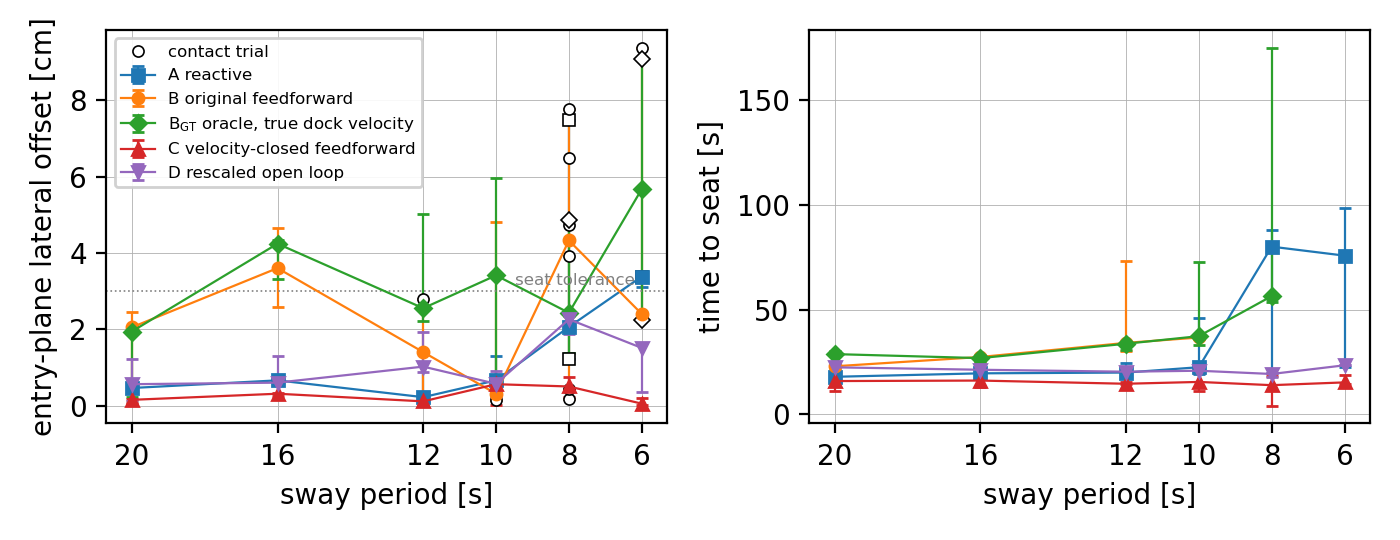
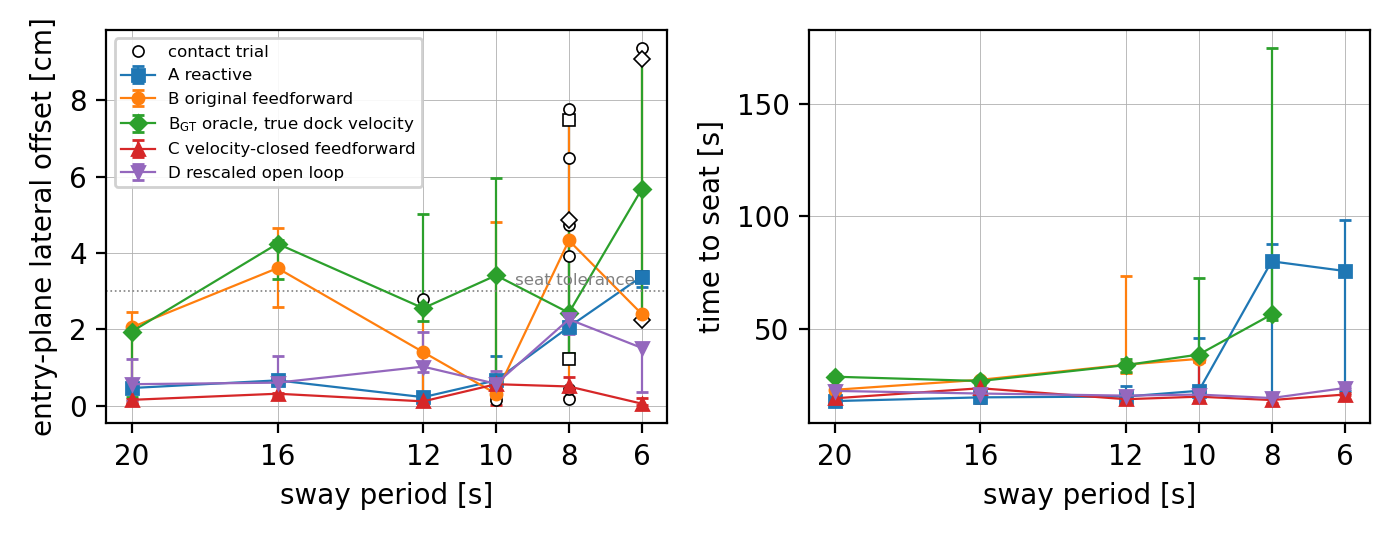
paper: seat times from the rescored data, the two repairs level on speed, success figure replaced by Table I, ten pages

diff --git a/ut27/paper/sections/07-results.tex b/ut27/paper/sections/07-results.tex
@@ -31,9 +31,9 @@ Table~\ref{tab:core} gives the envelope. The reactive baseline docks at every pe
     \midrule
     A seat time [s] & 18 & 20 & 20 & 22 & 80 & 76 \\
     B seat time [s] & 23 & 27 & 34 & 37 & -- & -- \\
-    \Bgt{} seat time [s] & 29 & 27 & 34 & 37 & 56 & -- \\
-    C seat time [s] & 16 & 16 & 15 & 15 & 14 & 15 \\
-    D seat time [s] & 22 & 21 & 20 & 21 & 19 & 23 \\
+    \Bgt{} seat time [s] & 29 & 27 & 34 & 39 & 56 & -- \\
+    C seat time [s] & 19 & 24 & 19 & 20 & 18 & 21 \\
+    D seat time [s] & 22 & 21 & 20 & 21 & 19 & 24 \\
     \bottomrule
   \end{tabular}
 \end{table}
@@ -48,9 +48,9 @@ Table~\ref{tab:core} gives the envelope. The reactive baseline docks at every pe
     Variant & Clean & Seat [s] & Max off. & Nav. \\
     \midrule
     nothing converted & 17 of 19 & 39 to 47 & 2.6~cm & 17 of 18 \\
-    + position gains $\times g$ & 18 of 18 & 40 to 42 & 1.8~cm & 17 of 18 \\
-    + speed limits $\times g$ & 16 of 18 & 8 to 17 & 1.1~cm & 9 of 18 \\
-    + model feedforward (arm C) & 18 of 18 & 14 to 16 & 0.8~cm & 16 of 18 \\
+    + position gains $\times g$ & 18 of 18 & 41 to 43 & 1.8~cm & 17 of 18 \\
+    + speed limits $\times g$ & 16 of 18 & 16 to 18 & 1.1~cm & 9 of 18 \\
+    + model feedforward (arm C) & 18 of 18 & 18 to 24 & 0.8~cm & 16 of 18 \\
     \bottomrule
   \end{tabular}
 \end{table}
@@ -67,24 +67,24 @@ Fig.~\ref{fig:overswing} plots the vehicle-to-dock lateral amplitude ratio, take
 
 \subsection{Capture quality and time to seat}
 
-The offset at the entry plane and the time to seat (Fig.~\ref{fig:capture}, Table~\ref{tab:core}) separate the arms that dock. The velocity-closed feedforward has the smallest median offsets at five of the six periods (at 10~s the original method's 0.3~cm median includes a contact trial), 0.1 to 0.6~cm with no trial over 0.8~cm, against 0.6 to 2.3~cm for the rescaled arm and 0.2 to 3.4~cm for the baseline; every trial of both repairs is inside the 3~cm seat tolerance. The oracle, with the true velocity but the open-loop law, crosses the entry plane with median offsets of 1.9 to 5.7~cm, larger than the baseline's at every period: an accurate feedforward through a mis-scaled law is worse at the entry plane than none. The velocity-closed arm is also the fastest to seat, median 14 to 16~s at every period with no trial over 21~s, against 19 to 23~s for the rescaled arm and 18 to 22~s for the baseline from 20 to 10~s, rising to 76 to 80~s at 8 and 6~s where the baseline rides the swing until a favourable phase. The velocity-closed arm crosses the entry plane at 0.05 to 0.06~m/s, the floor of the closing-speed ramp, the baseline and the rescaled arm at 0.08 to 0.10~m/s, because the inner loop follows the ramp instead of saturating against it. The rescaled arm ran without the velocity-state decay; its longest core-sweep blackout, 19~percent of one 10~s run, still docked.
+The offset at the entry plane and the time to seat (Fig.~\ref{fig:capture}, Table~\ref{tab:core}) separate the arms that dock. The velocity-closed feedforward has the smallest median offsets at five of the six periods (at 10~s the original method's 0.3~cm median includes a contact trial), 0.1 to 0.6~cm with no trial over 0.8~cm, against 0.6 to 2.3~cm for the rescaled arm and 0.2 to 3.4~cm for the baseline; every trial of both repairs is inside the 3~cm seat tolerance. The oracle, with the true velocity but the open-loop law, crosses the entry plane with median offsets of 1.9 to 5.7~cm, larger than the baseline's at every period: an accurate feedforward through a mis-scaled law is worse at the entry plane than none. The two repairs seat at the same speed, medians of 18 to 24~s for the velocity-closed arm (one trial 35~s) and 19 to 24~s for the rescaled arm, against 18 to 22~s for the baseline from 20 to 10~s, rising to 76 to 80~s at 8 and 6~s where the baseline rides the swing until a favourable phase. The velocity-closed arm crosses the entry plane at 0.05 to 0.06~m/s, the floor of the closing-speed ramp, the baseline and the rescaled arm at 0.08 to 0.10~m/s, because the inner loop follows the ramp instead of saturating against it. The rescaled arm ran without the velocity-state decay; its longest core-sweep blackout, 19~percent of one 10~s run, still docked.
 
 \begin{figure}[t]
-  \centerline{\includegraphics[width=0.84\columnwidth]{figures/capture_and_time.png}}
+  \centerline{\includegraphics[width=0.8\columnwidth]{figures/capture_and_time.png}}
   \caption{Median and range over the cell of the lateral offset at the entry plane (left; hollow markers are the individual trials scored as contacts) and of the time to seat (right, docked trials only; a line is broken where no trial docked).}
   \label{fig:capture}
 \end{figure}
 
-Table~\ref{tab:ablation} prices the unit conversions of Section~\ref{sec:redesign}. With nothing converted the loop docks to 8~s but seats in about 42~s and misses two of three trials at 6~s, holding the standoff with the 2.8 to 3.2~cm RMS relative error its 28$^\circ$ lag predicts ($|1-H| = 0.46$ of the sway amplitude) while the handoff's velocity-match test never holds. Converting the position gains restores the outer loop and the 6~s cells latch, at offsets under 2~cm, but the seat time stays at 41~s because the fine-phase closing speed is still 0.07~m/s. Converting the speed limits as well makes the pure PI fast, 8 to 17~s, but at that speed its lag shows: two core trials never latch and under navigation error it over-swings by 1.5 to 10, demotes ten times and docks in 9 of 18. The model feedforward, the $v_{\mathrm{ref}}/g$ term of Eq.~\eqref{eq:vloop}, removes the lag and gives arm C: every core trial clean, 14 to 16~s, and 16 of 18 under navigation error.
+Table~\ref{tab:ablation} prices the unit conversions of Section~\ref{sec:redesign}. With nothing converted the loop docks to 8~s but seats in about 42~s and misses two of three trials at 6~s, holding the standoff with the 2.8 to 3.2~cm RMS relative error its 28$^\circ$ lag predicts ($|1-H| = 0.46$ of the sway amplitude) while the handoff's velocity-match test never holds. Converting the position gains restores the outer loop and the 6~s cells latch, at offsets under 2~cm, but the seat time stays at 41 to 43~s because the fine-phase closing speed is still 0.07~m/s. Converting the speed limits as well makes the pure PI fast, 16 to 18~s, but at that speed its lag shows: two core trials never latch and under navigation error it over-swings by 1.5 to 10, demotes ten times and docks in 9 of 18. The model feedforward, the $v_{\mathrm{ref}}/g$ term of Eq.~\eqref{eq:vloop}, removes the lag and gives arm C: every core trial clean, 18 to 24~s, and 16 of 18 under navigation error.
 
 \subsection{Estimators and controllers under navigation error}
 
 Replaying both estimators offline on the recorded measurement streams of four arm-B trials (20, 12, 10 and 8~s) with the navigation corrupted at the three levels, three seeds each, the slow part of the dock-velocity error tracks the injected bias for both: means over the twelve replays per level of 0.024 to 0.070~m/s against a bias of 0.023 to 0.076~m/s at the medium and high levels, correlation 0.6 to 0.9; at the low level the 0.8~cm/s bias sits at the estimators' own floor and the correlation falls to 0.3. The relative frame removes only the fast part, 1.4 to 1.6~cm/s against 4.0 to 4.3~cm/s, by not differentiating the injected white position error; the relative position error the controllers act on is 3.5 to 3.7~cm RMS for both.
 
-The live sweep feeds the corrupted navigation to the controllers as well as the estimators: arms A, B, C and D at 10 and 8~s, three bias levels and three phases, 72 trials, plus 54 for the ablation variants (Fig.~\ref{fig:nav}, Table~\ref{tab:ablation}). The arms separate on the bias. The reactive arm docks in 3 of 18 trials, two of them at the low level: its constant-position filter lives in the world frame through the vehicle pose and cannot follow a navigation frame that drifts even at 1~cm/s, so the relative geometry it regulates is wrong by tens of centimetres and the standoff is never satisfied (Section~\ref{sec:discussion}). The original feedforward docks in 4 of 18, all at the low level; at the medium level its constant-velocity filter absorbs the drift as dock velocity, the open-loop law drives the vehicle at the dock velocity plus the bias, and four of six trials left the dock altogether, climbing toward the surface until the run was stopped (scored as contacts, since each crossed the aperture boundary first). The velocity-closed feedforward docks in 16 of 18 (Wilson interval 0.67 to 0.97) against 4 of 18 and 3 of 18 ($p < 10^{-3}$ for either contrast), because the bias enters the setpoint and the measured vehicle velocity alike and cancels in the loop error; its entry offsets stay at 0.3 to 0.4~cm median through the low and medium levels. The rescaled open-loop arm also docks in 16 of 18: it carries the bias into the command at one times its size, where the original carried it at 2.7 times, and the position feedback holds the offset the bias leaves, $b_v / (K_p g)$ with the position gain, 4.6~cm at the high level's stationary deviation but less over a fine phase, where the realised bias is smaller; the cost is 1.3 to 1.7~cm median offsets. The sweep does not separate the two repairs ($p = 1$). Both arm C misses are at the 10~s period under the 10~cm/s drift, where the fix meets the estimator's own limit: the world-frame filter must carry sway plus drift, above its 0.2~m/s velocity bound about 30~percent of the time in this realisation, so the velocity state sits on the bound and the world-frame estimate drifts metres from the dock while the markers stay in view (no blackout, no demotion in either miss). The rescaled arm's two misses are both at 10~s and the same start phase, one at the medium level, where the open-loop law carried the bias into an over-swing that lost the markers for 30~percent of the run, and one at the high level, where it was demoted once and crossed the aperture without latching; all four misses share one cell of the single bias realisation, so they are one hard trajectory rather than four independent events. The bound was sized for the dock's own motion and is kept fixed across arms here.
+The live sweep feeds the corrupted navigation to the controllers as well as the estimators: arms A, B, C and D at 10 and 8~s, three bias levels and three phases, 72 trials, plus 54 for the ablation variants (Fig.~\ref{fig:nav}, Table~\ref{tab:ablation}). The arms separate on the bias. The reactive arm docks in 3 of 18 trials, two of them at the low level: its constant-position filter lives in the world frame through the vehicle pose and cannot follow a navigation frame that drifts even at 1~cm/s, so the relative geometry it regulates is wrong by tens of centimetres and the standoff is never satisfied (Section~\ref{sec:discussion}). The original feedforward docks in 4 of 18, all at the low level; at the medium level its constant-velocity filter absorbs the drift as dock velocity, the open-loop law drives the vehicle at the dock velocity plus the bias, and four of six trials left the dock altogether, climbing toward the surface until the run was stopped (scored as contacts, since each crossed the aperture boundary first). The velocity-closed feedforward docks in 16 of 18 (Wilson interval 0.67 to 0.97) against 4 of 18 and 3 of 18 ($p < 10^{-3}$ for either contrast), because the bias enters the setpoint and the measured vehicle velocity alike and cancels in the loop error; its entry offsets stay at 0.3 to 0.4~cm median through the low and medium levels. The rescaled open-loop arm also docks in 16 of 18: it carries the bias into the command at one times its size, where the original carried it at 2.7 times, and the position feedback holds the offset the bias leaves, $b_v / (K_p g)$ with the position gain, 4.6~cm at the high level's stationary deviation but less over a fine phase, where the realised bias is smaller; the cost is 1.3 to 1.7~cm median offsets. The sweep does not separate the two repairs ($p = 1$). Both arm C misses are at the 10~s period under the 10~cm/s drift, where the fix meets the estimator's own limit: the world-frame filter must carry sway plus drift, above its 0.2~m/s velocity bound about 30~percent of the time in this realisation, so the velocity state sits on the bound and the world-frame estimate drifts metres from the dock while the markers stay in view (no blackout, no demotion in either miss). The rescaled arm's two misses are both at 10~s and the same start phase, one at the medium level, where the open-loop law carried the bias into an over-swing that lost the markers for 30~percent of the run, and one at the high level, where it was demoted once and crossed the aperture without latching; all four misses share one cell of the single bias realisation. The bound was sized for the dock's own motion and is kept fixed across arms here.
 
 \begin{figure}[t]
-  \centerline{\includegraphics[width=0.76\columnwidth]{figures/nav_heatmap.png}}
+  \centerline{\includegraphics[width=0.7\columnwidth]{figures/nav_heatmap.png}}
   \caption{Docked fraction under first-order Gauss-Markov navigation error ($\tau_b = 30$~s, 1~mm white position noise, one seed) by arm and bias level, three sway phases per cell; the level-none column is the core sweep (six trials for arm B at 8~s).}
   \label{fig:nav}
 \end{figure}

diff --git a/ut27/paper/sections/08-discussion.tex b/ut27/paper/sections/08-discussion.tex
@@ -1,12 +1,12 @@
 \section{Discussion}
 \label{sec:discussion}
 
-\textbf{What the oracle and the rescaled arm decided.} \Bgt{} feeds the true dock velocity through the same law as arm B, so it isolates the plant from the estimator. It over-swings as B does at every period, which places the over-swing in the open-loop law and the plant. It also seats at 8~s where B does not, so at that one period the estimate's phase lag, through a lag-limited plant, decides whether the small markers stay in view. Both repairs remove the over-swing at every period with the same estimate. The rescaled open-loop arm settles the second question the oracle leaves open: it docks without contact at every period including 6~s with only the gain changed, so under exact navigation the fault was the gain, and the open-loop structure was sound once the plant was identified. The ablation adds the lesson for anyone who closes the loop instead: every gain, limit and ramp downstream of the controller output was tuned as an effort, each one left unconverted cost a measured failure, and the pure PI at full speed needed the model feedforward to keep its lag down: without it the loop over-swung by 1.5 to 10 under bias and docked in 9 of 18.
+\textbf{What the oracle and the rescaled arm decided.} \Bgt{} feeds the true dock velocity through the same law as arm B, so it isolates the plant from the estimator. It over-swings as B does at every period, which places the over-swing in the open-loop law and the plant. It also seats at 8~s where B does not, so at that one period the estimate's phase lag, through a lag-limited plant, decides whether the small markers stay in view. Both repairs remove the over-swing at every period with the same estimate. The rescaled open-loop arm settles the second question the oracle leaves open: it docks without contact at every period including 6~s with only the gain changed, so under exact navigation the fault was the gain, and the open-loop structure was sound once the plant was identified. The ablation adds the lesson for anyone who closes the loop instead: every gain, limit and ramp downstream of the controller output was tuned as an effort, each one left unconverted cost a measured failure, and the pure PI at full speed needed the model feedforward to keep its lag down (9 of 18 under bias without it).
 
 \textbf{Transfer to hardware.} The cliff sits where the position loop's return ratio at the sway frequency falls toward unity; a longer plant lag lowers it further. A real vehicle adds thruster response, autopilot filtering and tether drag, so the lag will grow; the gain must be re-identified, and the rescaled law stands or falls with that number. The velocity-closed feedforward needs only the identified lag to place its bandwidth, and a body-velocity measurement to close on. A stock BlueROV2 has none; the arm assumes a Doppler velocity log, whose bias and noise the navigation-error levels bracket. The loop closes here on a 100~Hz velocity; a Doppler log at 5 to 15~Hz with bottom-track latency adds a lag the sweep does not model, which the 2~rad/s bandwidth tolerates only while that lag stays well under the 0.4~s plant time constant, and a Doppler log within a metre of a moving dock face may track the dock rather than the seabed. Without a velocity sensor only the rescaled law is available.
 
-\textbf{Navigation error.} The observability limit of Section~\ref{sec:navobs} has a plain practical reading, and the live sweep shows it: an open-loop feedforward on a real navigation solution drives the vehicle at the dock velocity plus $K_{ff}\,g$ times the bias. The original method's collapse at a 3~cm/s drift was the same gain error once more, amplifying the bias 2.7 times; with the gain corrected the open loop carries the bias at one times and the position feedback absorbs it, 16 of 18 trials, leaving a visible offset at the entry plane. Closing the feedforward on the same navigation solution cancels the bias in the loop error, 16 of 18 with millimetre offsets. What the velocity loop buys for a deployment is therefore not a margin in docking count at these levels but, by the argument of Section~\ref{sec:redesign} and not by a test in this sweep, tolerance of an error in $g$, which changes with flight mode, trim and hardware; cancellation of a bias, to within the estimator's tracking lag, that the position loop would otherwise hold as a steady offset of $b_v / (K_p g)$ with the position gain, 4.6~cm at a steady 10~cm/s with the fine gains; and the most accurate and fastest insertion in this sweep. The order of importance for a deployment is therefore the plant identification, then the bounded velocity state, then the choice of law by how well $g$ is known, and the choice of estimator last. The reactive baseline is the arm that navigation drift hurts most here, because its constant-position filter lives in the world frame through the vehicle pose and has nothing to absorb the drift with. The sensitivity belongs to the world-frame formulation; a reactive servo on the camera-frame pose alone, as Trsli\'c et al.\ ran it \cite{trslic2020vision}, never sees the navigation, at the cost of filtering across dropouts.
+\textbf{Navigation error.} The observability limit of Section~\ref{sec:navobs} has a plain practical reading, and the live sweep shows it: an open-loop feedforward on a real navigation solution drives the vehicle at the dock velocity plus $K_{ff}\,g$ times the bias. The original method's collapse at a 3~cm/s drift was the same gain error once more, amplifying the bias 2.7 times; with the gain corrected the open loop carries the bias at one times and the position feedback absorbs it, 16 of 18 trials, leaving a visible offset at the entry plane. Closing the feedforward on the same navigation solution cancels the bias in the loop error, 16 of 18 with millimetre offsets. What the velocity loop buys for a deployment is therefore not a margin in docking count at these levels but, by the argument of Section~\ref{sec:redesign} and not by a test in this sweep, tolerance of an error in $g$, which changes with flight mode, trim and hardware; cancellation of a bias, to within the estimator's tracking lag, that the position loop would otherwise hold as a steady offset of $b_v / (K_p g)$ with the position gain, 4.6~cm at a steady 10~cm/s with the fine gains; and the most accurate insertion in this sweep, at the rescaled law's speed. The order of importance for a deployment is therefore the plant identification, then the bounded velocity state, then the choice of law by how well $g$ is known, and the choice of estimator last. The reactive baseline is the arm that navigation drift hurts most here, because its constant-position filter lives in the world frame through the vehicle pose and has nothing to absorb the drift with. The sensitivity belongs to the world-frame formulation; a reactive servo on the camera-frame pose alone, as Trsli\'c et al.\ ran it \cite{trslic2020vision}, never sees the navigation, at the cost of filtering across dropouts.
 
 \textbf{Where the fix stops.} At a 10~cm/s drift the world-frame filter saturates its 0.2~m/s velocity bound and the estimate walks away from the dock with the markers in view; no controller recovers that. Arm C loses two trials of six there, the rescaled arm one there and one at the medium level to a marker loss. The bound was sized for the dock's own motion and kept fixed across arms; sizing it with the expected drift, or estimating the drift as a state, is the next step.
 
-\textbf{Limitations.} Contact is not modelled; success is scored at the capture envelope and would-be contacts are censored. The dock motion is a single prescribed sinusoid at one amplitude in still water, so what is tested is a 0.1~m relative motion. The orbital flow that moves a real dock also advects the vehicle, a moored dock yaws and pitches, and there is no current, tether or surge; a multi-sine, a yawing dock and a flow field on the vehicle are the next cells. At the 0.55~m cage amplitude of Trsli\'c et al.\ the dock velocity exceeds the 0.2~m/s bound and the 0.25~m/s clamp, which must scale with the site. Perception is rendered without water, so the 0.2 to 0.9~cm measurement error is a property of the renderer; real ArUco poses jitter at the centimetre level, which a constant-velocity filter differentiates into velocity, so a replay with measured marker jitter is the next test of the estimator. The plant gain and time constant come from open-loop step tests in the simulator and arm C's velocity loop is tuned against them, so the same tests must be repeated on hardware before the gains transfer. The second host's velocity-state amplitudes are biased low by a wall-clock filter defect fixed before the comparison.
+\textbf{Limitations.} Contact is not modelled; success is scored at the capture envelope and would-be contacts are censored. The dock motion is a single prescribed sinusoid at one amplitude in still water, so what is tested is a 0.1~m relative motion. The orbital flow that moves a real dock also advects the vehicle, a moored dock yaws and pitches, and there is no current, tether or surge; a multi-sine, a yawing dock and a flow field on the vehicle are the next cells. At the 0.55~m cage amplitude of Trsli\'c et al.\ the dock velocity exceeds the 0.2~m/s bound and the 0.25~m/s clamp, which must scale with the site. Perception is rendered without water, so the 0.2 to 0.9~cm measurement error is a property of the renderer; real ArUco poses jitter at the centimetre level, which a constant-velocity filter differentiates into velocity, so a replay with measured marker jitter is the next test of the estimator. The plant gain and time constant come from open-loop step tests in the simulator and arm C's velocity loop is tuned against them, so the same tests must be repeated on hardware before the gains transfer.

diff --git a/ut27/paper/sections/09-conclusion.tex b/ut27/paper/sections/09-conclusion.tex
@@ -1,6 +1,6 @@
 \section{Conclusion}
 \label{sec:conclusion}
 
-Adding a dock-velocity feedforward to a static-dock visual docking pipeline turned a reactive baseline that docks at every sway period into a method that fails at the wave periods of its operating site, and its own estimator pointed at itself. The recorded trials showed the estimator was right: the vehicle over-swung because the feedforward was scaled for a plant gain of 1.3 to 1.6 where the command channel delivers 2.7. The same law fed the true dock velocity over-swings identically, so the limit was the open-loop law rather than the estimate, and the same law with its gain rescaled to the identified plant docks without contact at every period from 20 to 6~s, so the fault was the gain rather than the open-loop structure. Closing the feedforward as a body-velocity setpoint on the vehicle's own navigation velocity, the standard cascade of marine motion control with the identified gain as a model feedforward inside the loop, also docks without contact at every period, fastest of the arms and with entry-plane offsets under 1~cm, and by construction tolerates an error in the plant gain as a transient the integrator removes, which was not tested here; it does need every gain and limit downstream of the loop converted to velocity units, and the ablation shows what each one left unconverted costs. A slow navigation-velocity bias that no constant-velocity estimator can observe, in the world frame or the relative frame, reaches the command through any open-loop feedforward at $K_{ff}\,g$ times its size: 2.7 times in the original method, which docked in 4 of 18 trials under bias, and once in the rescaled law; the velocity loop cancels it. Both repairs dock in 16 of 18; the velocity loop's misses are both at a 10~cm/s drift, where the estimator's velocity bound saturates. Bounding the velocity state during marker blackout removes the dead-reckoning that produced the apparent phantom velocity. For a deployment the order of importance is the plant identification, then the bounded velocity state, then the choice between the rescaled law and the velocity loop by how well the plant gain is known; and since every diagnostic the system exposed pointed the wrong way, a feedforward on a moving target needs an independent measurement of the vehicle's response before its estimator is blamed.
+Adding a dock-velocity feedforward to a static-dock visual docking pipeline turned a reactive baseline that docks at every sway period into a method that fails at the wave periods of its operating site, and its own estimator pointed at itself. The recorded trials showed the estimator was right: the vehicle over-swung because the feedforward was scaled for a plant gain of 1.3 to 1.6 where the command channel delivers 2.7. The same law fed the true dock velocity over-swings identically, so the limit was the open-loop law rather than the estimate, and the same law with its gain rescaled to the identified plant docks without contact at every period from 20 to 6~s, so the fault was the gain rather than the open-loop structure. Closing the feedforward as a body-velocity setpoint on the vehicle's own navigation velocity, the standard cascade of marine motion control with the identified gain as a model feedforward inside the loop, also docks without contact at every period, as fast as the rescaled law and with entry-plane offsets under 1~cm, and by construction tolerates an error in the plant gain as a transient the integrator removes, which was not tested here; it does need every gain and limit downstream of the loop converted to velocity units, and the ablation shows what each one left unconverted costs. A slow navigation-velocity bias that no constant-velocity estimator can observe, in the world frame or the relative frame, reaches the command through any open-loop feedforward at $K_{ff}\,g$ times its size: 2.7 times in the original method, which docked in 4 of 18 trials under bias, and once in the rescaled law; the velocity loop cancels it. Both repairs dock in 16 of 18; the velocity loop's misses are both at a 10~cm/s drift, where the estimator's velocity bound saturates. Bounding the velocity state during marker blackout removes the dead-reckoning that produced the apparent phantom velocity. For a deployment the order of importance is the plant identification, then the bounded velocity state, then the choice between the rescaled law and the velocity loop by how well the plant gain is known; and since every diagnostic the system exposed pointed the wrong way, a feedforward on a moving target needs an independent measurement of the vehicle's response before its estimator is blamed.
 
 Three extensions follow from where the results stop: size the dock filter's velocity bound with the navigation drift, or estimate the drift apart from the sway, which the high-bias misses of both repairs ask for; drive the dock with a multi-sine or a measured sea state and a yawing station; and carry the procedure to the vehicle: the step tests of Section~\ref{sec:failure} on the real plant, a Doppler velocity log for the inner loop, and a tank with a moving dock, where the lags the simulation omits will show.

diff --git a/ut27/paper/sections/06-experimental-design.tex b/ut27/paper/sections/06-experimental-design.tex
@@ -3,7 +3,7 @@
 
 Five arms share the perception pipeline, the controllers and the state machine and differ in the estimator regime and the feedforward law (Table~\ref{tab:arms}): (A) the reactive baseline, static regime, no feedforward; (B) the original method, sway regime with the open-loop feedforward of Section~\ref{sec:system}; (\Bgt) B fed the ground-truth dock velocity, a diagnostic bound rather than a candidate; (C) the velocity-closed feedforward of Section~\ref{sec:redesign}; and (D) the original law with $K_{ff} = 1/g = 0.37$ in both phases. If \Bgt{} over-swings as B does, the estimate is not the limit; if D docks, the gain was the fault rather than the open-loop structure; and the margin between D and C under navigation error is what the velocity loop buys. Three ablation variants of C isolate its unit conversions: C$_\mathrm{none}$ with nothing converted, C$_\mathrm{gains}$ with the position gains converted only, and C$_\mathrm{noff}$ with gains and limits converted but no model feedforward.
 
-The core sweep covers periods of 20, 16, 12, 10, 8 and 6~s at 0.1~m orbital amplitude, three start phases per cell. Every trial starts from the same spawn 5~m from the dock, engages the state machine once the filter has initialised, and runs to the seat or a 200~s timeout; a run stopped by the wall-clock guard when the simulator fell below a real-time factor of 0.25 was rerun. A trial receives one of three outcomes: \emph{clean} if the vehicle latched without its body origin crossing the 0.15~m entry aperture off axis before latching; \emph{contact} if it crossed the aperture boundary inside the dock plane before latching, counted as docked if it then latched but not as clean, since contact is not physically modelled; and \emph{no dock} on timeout. Three trials per cell cannot distinguish 3 of 3 from 0 of 3 (two-sided Fisher exact test, $p = 0.10$), so per-cell fractions are descriptive and the comparisons are made on counts pooled over cells or levels, with exact tests and 95~percent Wilson intervals. Per trial the analysis records the lateral and vertical offset and the closing speed at the dock plane, the time to dock, the vehicle-to-dock lateral amplitude ratio over the measured tracking windows, the dock-velocity estimation error against the ground-truth derivative while the filter is usable, the fraction of time without a marker measurement, and the counts of demotions and stale episodes. All of these are computed offline from recorded bags by the same scripts for every arm.
+The core sweep covers periods of 20, 16, 12, 10, 8 and 6~s at 0.1~m orbital amplitude, three start phases per cell. Every trial starts from the same spawn 5~m from the dock, engages the state machine once the filter has initialised, and runs to the seat or a 200~s timeout; runs stopped by the wall-clock guard were rerun. A trial receives one of three outcomes: \emph{clean} if the vehicle latched without its body origin crossing the 0.15~m entry aperture off axis before latching; \emph{contact} if it crossed the aperture boundary inside the dock plane before latching, counted as docked if it then latched but not as clean, since contact is not physically modelled; and \emph{no dock} on timeout. Three trials per cell cannot distinguish 3 of 3 from 0 of 3 (two-sided Fisher exact test, $p = 0.10$), so per-cell fractions are descriptive and the comparisons are made on counts pooled over cells or levels, with exact tests and 95~percent Wilson intervals. Per trial the analysis records the lateral and vertical offset and the closing speed at the dock plane, the time to dock, the vehicle-to-dock lateral amplitude ratio over the measured tracking windows, the dock-velocity estimation error against the ground-truth derivative while the filter is usable, the fraction of time without a marker measurement, and the counts of demotions and stale episodes. All of these are computed offline from recorded bags by the same scripts for every arm.
 
 The navigation-robustness sweep injects a first-order Gauss-Markov velocity bias into the vehicle navigation solution seen by the estimators and controllers, with the ground truth used only for scoring:
 \begin{equation}

diff --git a/ut27/paper/main.tex b/ut27/paper/main.tex
@@ -35,7 +35,7 @@ ORCID: 0000-0003-3786-1691}
 \maketitle
 
 \begin{abstract}
-Moored and suspended docking stations move with the waves, so the terminal visual stage of underwater docking must track a moving target. The natural extension of a static-dock pipeline is to estimate the dock velocity onboard and feed it forward into the vehicle command. We report what happened when that was done for a passive-marker docking stage on a low-cost ROV in simulation with the production autopilot in the loop: a reactive baseline docks at every sway period, the feedforward method fails at the 8 and 6~s periods of the intended site, and its own signals blame the estimator. Rebuilding every measurement from the recorded trials shows the estimate is accurate and the failure is control: the feedforward over-drives a plant whose identified gain is 2.7 against the 1.3 to 1.6 it was tuned to, the apparent phantom velocity is dead-reckoning during the marker blackout the over-swing causes, and the same law fed the true dock velocity over-swings identically. Two repairs follow. Rescaling the open-loop gain to the identified plant docks without contact at every period from 20 to 6~s. Closing the feedforward as a body-velocity setpoint on the navigation velocity, with every gain and limit downstream of the loop converted to velocity units and the identified gain as a model feedforward inside it, docks without contact at every period, fastest of the arms with entry-plane offsets under 1~cm, and by construction turns an error in the plant gain into a transient; an ablation prices each conversion left undone. Under first-order Gauss-Markov navigation error a constant-velocity estimator in either frame absorbs a slow velocity bias one for one; the original law carried it into the command at 2.7 times its size and docked in 4 of 18 trials, the rescaled law carries it once and the velocity loop cancels it, 16 of 18 each.
+Moored and suspended docking stations move with the waves, so the terminal visual stage of underwater docking must track a moving target. The natural extension of a static-dock pipeline is to estimate the dock velocity onboard and feed it forward into the vehicle command. We report what happened when that was done for a passive-marker docking stage on a low-cost ROV in simulation with the production autopilot in the loop: a reactive baseline docks at every sway period, the feedforward method fails at the 8 and 6~s periods of the intended site, and its own signals blame the estimator. Rebuilding every measurement from the recorded trials shows the estimate is accurate and the failure is control: the feedforward over-drives a plant whose identified gain is 2.7 against the 1.3 to 1.6 it was tuned to, the apparent phantom velocity is dead-reckoning during the marker blackout the over-swing causes, and the same law fed the true dock velocity over-swings identically. Two repairs follow. Rescaling the open-loop gain to the identified plant docks without contact at every period from 20 to 6~s. Closing the feedforward as a body-velocity setpoint on the navigation velocity, with every gain and limit downstream of the loop converted to velocity units and the identified gain as a model feedforward inside it, docks without contact at every period, as fast as the rescaled law and with entry-plane offsets under 1~cm, and by construction turns an error in the plant gain into a transient; an ablation prices each conversion left undone. Under first-order Gauss-Markov navigation error a constant-velocity estimator in either frame absorbs a slow velocity bias one for one; the original law carried it into the command at 2.7 times its size and docked in 4 of 18 trials, the rescaled law carries it once and the velocity loop cancels it, 16 of 18 each.
 \end{abstract}
 
 \begin{IEEEkeywords}

diff --git a/ut27/paper/sections/03-system.tex b/ut27/paper/sections/03-system.tex
@@ -10,7 +10,7 @@
   \label{fig:sim}
 \end{figure}
 
-The vehicle is a BlueROV2 Heavy in Gazebo (gz-sim~8, DART physics, Fig.~\ref{fig:sim}) with the production ArduSub firmware executed software-in-the-loop through the ArduPilot Gazebo plugin, so the path from velocity command through mode controller to motor mixing is the code a physical vehicle runs. The vehicle model, hydrodynamics and bring-up derive from the open-source Blue framework \cite{blue2024software,palmer2024angler}, with the drag coefficients aligned to published BlueROV2 Heavy identification. The forward camera renders 1920 by 1080 pixels with a 62$^\circ$ horizontal field of view at 10~Hz, without water-column effects. The world places the docking station 5~m ahead of the spawn point at 1.5~m depth. A plugin drives the dock through a prescribed sinusoidal sway and heave of 0.1~m amplitude with a 90$^\circ$ relative phase, an orbital motion standing in for wave forcing on a moored structure, with period and start phase set per trial. Mechanical capture is not modelled; success is defined at the capture envelope and contact with the structure is detected in scoring. The pipeline is the one developed for a static dock in \cite{choi2026thesis}; Table~\ref{tab:params} lists its parameters. The vehicle pose used by every node is the Gazebo ground-truth odometry at 100~Hz, relayed into the transform tree; Section~\ref{sec:failure} depends on this, and Section~\ref{sec:design} replaces it with a corrupted navigation solution.
+The vehicle is a BlueROV2 Heavy in Gazebo (gz-sim~8, DART physics, Fig.~\ref{fig:sim}) with the production ArduSub firmware executed software-in-the-loop through the ArduPilot Gazebo plugin, so the path from velocity command through mode controller to motor mixing is the code a physical vehicle runs. The vehicle model, hydrodynamics and bring-up derive from the open-source Blue framework \cite{blue2024software,palmer2024angler}, with the drag coefficients aligned to published BlueROV2 Heavy identification. The forward camera renders 1920 by 1080 pixels with a 62$^\circ$ horizontal field of view at 10~Hz, without water-column effects. A plugin drives the dock through a prescribed sinusoidal sway and heave of 0.1~m amplitude with a 90$^\circ$ relative phase, an orbital motion standing in for wave forcing on a moored structure, with period and start phase set per trial. Mechanical capture is not modelled; success is defined at the capture envelope and contact with the structure is detected in scoring. The pipeline is the one developed for a static dock in \cite{choi2026thesis}; Table~\ref{tab:params} lists its parameters. The vehicle pose used by every node is the Gazebo ground-truth odometry at 100~Hz, relayed into the transform tree; Section~\ref{sec:failure} depends on this, and Section~\ref{sec:design} replaces it with a corrupted navigation solution.
 
 
 \begin{table}[t]
